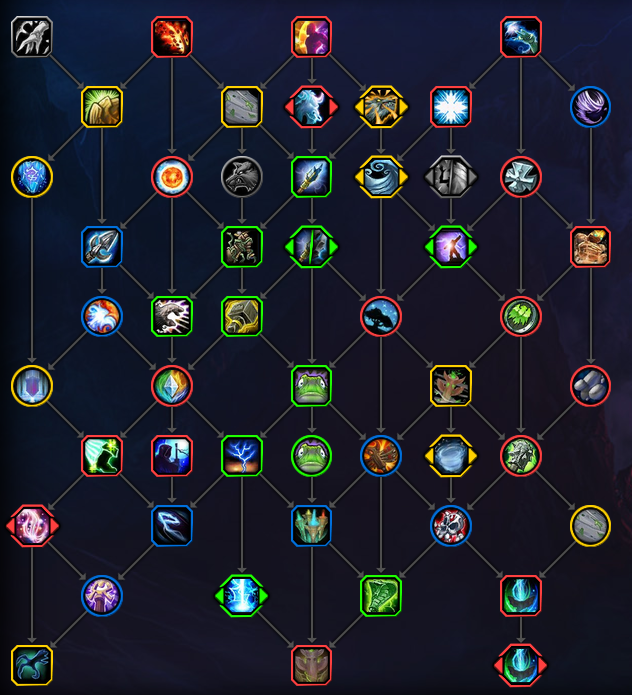
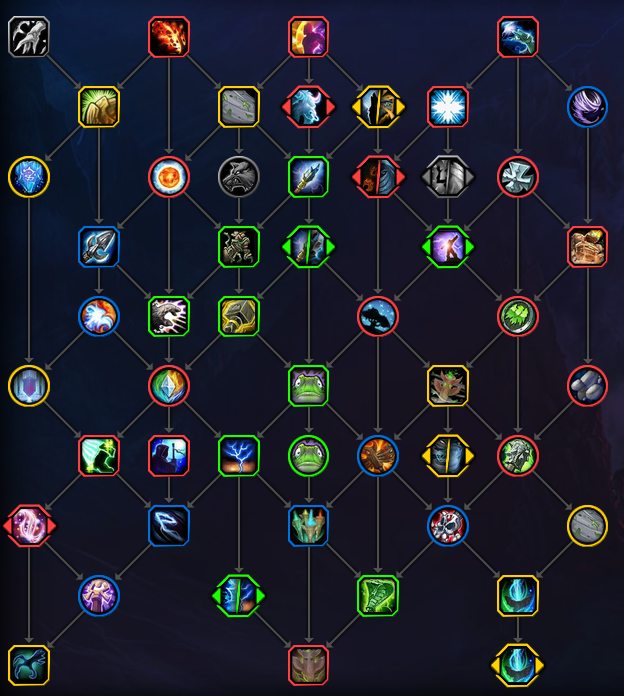
Class and Specific interactions
- Class tree updated with recent changes
- Added LvB an FE prepull in spec page
- Reorder spec page

diff --git a/guide/general/class_tree.md b/guide/general/class_tree.md
@@ -14,58 +14,81 @@ We have the luxury of having a very versatile Class tree that can basically adap
 
 With that being said, let's look at the content of the Class tree: 
 
-<img src="/assets/img/guide/class_Tree.png" alt="Class Tree Classification" class="center">
+<img src="/assets/img/guide/class_Tree.png" alt="Class Tree Classification">
 
 ## Red nodes: Always talent them
-- {{ site.data.spell.lvb }} and {{ site.data.spell.cl }} are points given to us as Elemental Shaman
-- {{ site.data.spell.as }}, {{ site.data.spell.planes_traveler }}, {{ site.data.spell.ee }}, {{ site.data.spell.primordial_bond }}, {{ site.data.spell.natures_guardian }}, {{ site.data.spell.brimming_with_life }} and {{ site.data.spell.elemental_warding }} are all primary defensive nodes
-- {{ site.data.spell.stone_bulwark_totem }} is a new defensive totem in TWW, making it required of course
-- Since {{ site.data.spell.totemic_recall }} works with {{ site.data.spell.stone_bulwark_totem }}, you always want it along with {{ site.data.spell.call_of_the_elements }}
-- {{ site.data.spell.fire_and_ice }}, {{ site.data.spell.natures_fury }}, {{ site.data.spell.frs }} and the new {{ site.data.spell.enhanced_imbues }} are the few throughput nodes in our tree which we always want
-- {{ site.data.spell.swg }} and {{ site.data.spell.graceful_spirit }} are too good to ever skip
-- {{ site.data.spell.ag }} is our best group utility and should be used as much as possible
+{{ site.data.spell.lvb }} and {{ site.data.spell.cl }} are points given to us as Elemental Shaman.
+
+{{ site.data.spell.fire_and_ice }}, {{ site.data.spell.natures_fury }}, {{ site.data.spell.frs }} and the new {{ site.data.spell.enhanced_imbues }} are the few throughput nodes in our tree and we always want them.
+
+{{ site.data.spell.as }}, {{ site.data.spell.planes_traveler }}, {{ site.data.spell.ee }}, {{ site.data.spell.primordial_bond }}, {{ site.data.spell.natures_guardian }}, {{ site.data.spell.brimming_with_life }} and {{ site.data.spell.elemental_warding }} are all primary defensive nodes.
+
+{{ site.data.spell.stone_bulwark_totem }} is a new defensive totem in TWW, making it required of course.
+
+{{ site.data.spell.swg }} and {{ site.data.spell.graceful_spirit }} are too good to ever skip.
+
+{{ site.data.spell.ag }} is our best group utility and should be used as much as possible.
+
+{{ site.data.spell.gow }} and {{ site.data.spell.spirit_walk }} are free mobility picks that always feel relevant. {{ site.data.spell.gow }} should be the default pick, unless you need the slow/root dispel of {{ site.data.spell.spirit_walk }}.
 
 <br>
 ## Yellow nodes: Usually Good
-- If the content you're doing doesn't require a kick, feel free to skip {{ site.data.spell.wind_shear }} and {{ site.data.spell.seasoned_winds }}. Otherwise, both are required talent
-- {{ site.data.spell.gow }} and {{ site.data.spell.spirit_walk }} could be red nodes, given how many points we have to spend in the tree. Nonetheless, they are not exactly required and some might talent off of them. I would still pretty much always use them
-- The exact same can be said for {{ site.data.spell.thunderous_paws }} and {{ site.data.spell.spirit_wolf }}
-- {{ site.data.spell.wrt }} and its new follow up choice node, {{ site.data.spell.jet_stream }} vs {{ site.data.spell.ascending_air }}, is very recommended in most content, but could be skipped depending on your group composition
-- {{ site.data.spell.earth_shield }} and {{ site.data.spell.elemental_orbit }} are defensive maintenance buff that are pretty low impact. A lot of players do not bother with it. It's still more than decent, especially if you maintain it between pulls in m+ or during downtime in raid
-- {{ site.data.spell.refreshing_waters }} is a great talent to use in hard content (raid prog, m+ pushing, ...) but gets weaker as a patch progresses. Both your healer and you will get more gear, making you less vulnerable over time
-- {{ site.data.spell.ns }} is yellow because it's a required node for the Farseer hero talents. If you are playing Stormbringer, it's a situational utility that can be skipped but great to get an extra movement global
+If the content you're doing doesn't require a kick, feel free to skip {{ site.data.spell.wind_shear }} and {{ site.data.spell.seasoned_winds }}. Otherwise, both are required talent.
+
+The exact same can be said for {{ site.data.spell.thunderous_paws }} and {{ site.data.spell.spirit_wolf }}.
+
+{{ site.data.spell.wrt }} and its new follow up choice node, {{ site.data.spell.jet_stream }} vs {{ site.data.spell.ascending_air }}, is very recommended in most content, but could be skipped depending on your group composition.
+
+{{ site.data.spell.earth_shield }} and {{ site.data.spell.elemental_orbit }} are defensive maintenance buff that are pretty low impact. A lot of players do not bother with it. It's still more than decent, especially if you maintain it between pulls in m+ or during downtime in raid.
+
+{{ site.data.spell.refreshing_waters }} is a great talent to use in hard content (raid prog, m+ pushing, ...) but gets weaker as a patch progresses. Both your healer and you will get more gear, making you less vulnerable over time.
+
+{{ site.data.spell.ns }} is yellow because it's a required node for the Farseer hero talents. If you are playing Stormbringer, it's a situational utility that can be skipped but great to get an extra movement global.
+
+Similarly to {{ site.data.spell.ns }}, {{ site.data.spell.totemic_recall }} is yellow because it's required as soon as you talent into {{ site.data.spell.lmt }} in the spec tree. You can also use it with {{ site.data.spell.wrt }} for extra movement. You always want it alongside {{ site.data.spell.call_of_the_elements }}.
 
 <br>
 ## Green nodes: Situational Utility
-- Crowd Control nodes: 
-  - {{ site.data.spell.capacitor_totem }}, with {{ site.data.spell.guardians_cudgel }} or {{ site.data.spell.static_charge }}
-  - {{ site.data.spell.thunderstorm }}, with {{ site.data.spell.thundershock }} or {{ site.data.spell.traveling_storms }}
-  - {{ site.data.spell.hex }} and {{ site.data.spell.voodoo_mastery }}
-  - {{ site.data.spell.earthgrab_totem }}
-- Utility nodes:
-  - {{ site.data.spell.purge }} and {{ site.data.spell.cleanse_spirit }} are perfect examples of good talents that are purely situational and can be skipped in many builds, and picked only when needed
-  - {{ site.data.spell.tremor_totem }}
-  - {{ site.data.spell.pct}}
+Crowd Control nodes: 
+- {{ site.data.spell.capacitor_totem }}, with {{ site.data.spell.guardians_cudgel }} or {{ site.data.spell.static_charge }}
+- {{ site.data.spell.thunderstorm }}, with {{ site.data.spell.thundershock }} or {{ site.data.spell.traveling_storms }}
+- {{ site.data.spell.hex }} and {{ site.data.spell.voodoo_mastery }}
+- {{ site.data.spell.earthgrab_totem }}
+
+Utility nodes:
+- {{ site.data.spell.purge }} and {{ site.data.spell.cleanse_spirit }} are perfect examples of good talents that are purely situational and can be skipped in many builds, and picked only when needed
+- {{ site.data.spell.tremor_totem }}
+- {{ site.data.spell.pct}}
 
 <br>
 ## Blue nodes: Low impact or pathing nodes
-- {{ site.data.spell.healing_stream_totem }}, paired with {{ site.data.spell.elemental_resistance }}, is a fire and forget group cd that has multiple severe drawbacks, namely:
-  - It's on the GCD, making you lose a cast
-  - You cannot control its target, making it unpredictible and globally low "relevant" healing
-  - With {{ site.data.spell.inundate }} being passive in TWW, you will gain 8 maelstrom when you using it
-  - Nonetheless, {{ site.data.spell.elemental_resistance }} is not negligeable DR when it works and it makes for a good pathing node toward {{ site.data.spell.elemental_warding }}
-- {{ site.data.spell.totemic_focus }} is nice for {{ site.data.spell.wrt }} or {{ site.data.spell.hst }} duration, but is mostly used for pathing toward {{ site.data.spell.stone_bulwark_totem }}
-- Similarly, {{ site.data.spell.totemic_projection }} has some nice uses with {{ site.data.spell.wrt }} or {{ site.data.spell.earthgrab_totem }} but is mostly used for pathing
-- {{ site.data.spell.totemic_surge }} is a small passive gains that you won't notice most of the time. It's mostly used for pathing when you do not have {{ site.data.spell.wind_shear }} to go with {{ site.data.spell.seasoned_winds }}
-- {{ site.data.spell.mana_spring }} is better in raid content than it is in party, but lacking nonetheless. The numbers on it are too low to make it a good talent
-- {{ site.data.spell.lightning_lasso }} can have some uses as an additional CC in m+, but the uptime loss makes it less relevant
-- {{ site.data.spell.winds_of_alakir }} is on the brim of being grey, but giving additional {{ site.data.spell.ghost_wolf }} mobility in dungeon can be a cool gain if you have nothing else to pick
+{{ site.data.spell.healing_stream_totem }}, paired with {{ site.data.spell.elemental_resistance }}, is a fire and forget group cd that has multiple severe drawbacks, namely it's on the GCD, making you lose a cast and you cannot control its target, making it unpredictible and globally low impact healing. Nonetheless, with {{ site.data.spell.inundate }} (now baseline in TWW) giving you 8 maelstrom when you using it and {{ site.data.spell.elemental_resistance }} giving non-negligeable DR when it works, {{ site.data.spell.hst }} a good pathing node toward {{ site.data.spell.elemental_warding }}.
+
+{{ site.data.spell.totemic_focus }} is nice for {{ site.data.spell.wrt }} or {{ site.data.spell.hst }} duration, but is mostly used for pathing toward {{ site.data.spell.stone_bulwark_totem }}.
+
+Similarly, {{ site.data.spell.totemic_projection }} has some nice uses with {{ site.data.spell.wrt }} or {{ site.data.spell.earthgrab_totem }} but is mostly used for pathing.
+
+{{ site.data.spell.totemic_surge }} is a small passive gains that you won't notice most of the time. It's mostly used for pathing when you do not have {{ site.data.spell.wind_shear }} to go with {{ site.data.spell.seasoned_winds }}.
+
+{{ site.data.spell.mana_spring }} is better in raid content than it is in party, but lacking nonetheless. The numbers on it are too low to make it a good talent.
+
+{{ site.data.spell.lightning_lasso }} can have some uses as an additional CC in m+, but the uptime loss makes it less relevant.
+
+{{ site.data.spell.winds_of_alakir }} is on the brim of being grey, but giving additional {{ site.data.spell.ghost_wolf }} mobility passively can be a cool gain if you have nothing else to pick.
 
 <br>
 ## Grey Nodes: Probably not played ever
-- We don't really have any incentives to ever press {{ site.data.spell.chain_heal }}. Pairing it with {{ site.data.spell.natures_swiftness }} can be a small healing burst on a group but it's honestly too low to ever bother talenting it
-- You cannot do damage in {{ site.data.spell.ghost_wolf }}, and {{ site.data.spell.ancestral_wolf_affinity }} helps when staying in {{ site.data.spell.ghost_wolf }}, making it non-ideal
-- Even if  {{ site.data.spell.encasing_cold }} and {{ site.data.spell.arctic_snowstorm }} are both super cool in theory, we have {{ site.data.spell.earthbind_totem }} baseline already providing slows making them obselete
+We don't really have any incentives to ever press {{ site.data.spell.chain_heal }}. Pairing it with {{ site.data.spell.natures_swiftness }} can be a small healing burst on a group but it's honestly too low to ever bother talenting it.
+
+You cannot do damage in {{ site.data.spell.ghost_wolf }}, and {{ site.data.spell.ancestral_wolf_affinity }} helps when staying in {{ site.data.spell.ghost_wolf }}, making it non-ideal.
+
+Even if  {{ site.data.spell.encasing_cold }} and {{ site.data.spell.arctic_snowstorm }} are both super cool in theory, we have {{ site.data.spell.earthbind_totem }} baseline already providing slows making them at best redundant.
+
+{{ site.data.spell.astral_bulwark }}, the alternative of {{ site.data.spell.planes_traveler }}, could theorically be used during progression if the damage events are spreaded enough. But more often than not, the CDR will give us more flexibility and 40% DR is more than enough.
+
+{{ site.data.spell.spiritwalkers_aegis }} is mostly a PvP choice and won't ever be used ({{ site.data.spell.graceful_spirit }} counterpart choice).
+
+We don't really ever need {{ site.data.spell.creation_core }} since we rarely need to reset more than one Totem, and losing the CDR from {{ site.data.spell.call_of_the_elements }} is a enormous price to pay.
 
 <hr>
 

diff --git a/guide/general/specific_interation.md b/guide/general/specific_interation.md
@@ -13,27 +13,24 @@ This page aims to display and discuss the recommended and most widely-used Build
 In practical terms we cannot account for every build variation and effort has been largely focused on the highest performing / most popular builds. If you find something that you feel works or performs better than what is listed here feel free to contact the team on [Storm, Earth & Lava Discord](https://discord.gg/y5dUf3PWrU) or [Earthshrine #Elemental Channel](https://discord.gg/earthshrine)
 
 <hr>
-# Deeply Rooted Elements
+# Lava Burst
+Probably the most basic interaction but you have to start this guide somewhere: {{ site.data.spell.lvb }} crit are calculated on-hit and not on cast. Which means you can cast {{ site.data.spell.lvb }} into {{ site.data.spell.fs }} and guarantee that {{ site.data.spell.lvb }} will crit.
 
-Casting {{ site.data.spell.lava_burst }} has an ever increasing chance to trigger {{ site.data.spell.ascendance }}, starting with a double 0% chance then incrementing by 1% per cast (0%, 0%, 1%, 2%, 3%, 4%, ...). This averages out to the 7% chance stated by the tooltip.
-
-<img src="/assets/img/guide/DRE_proc_chart.png" alt="DRE proc Chart">
-
-This behaviour implies low chance of back to back procs, as well as low chance of no procs for a extended period. 
-
-What becomes apparent is that you can and should play around your current proc chance. Let's say you're at the end of a mythic+ pack and your {{ site.data.spell.dre }} counter is at 11%. You're likely to proc {{ site.data.spell.asc }} in your next 3 to 5 {{ site.data.spell.lvb }} casts. If you stop casting {{ site.data.spell.lvb }} until next pack, you increase your chance of proccing {{ site.data.spell.asc }} when it matters in the next pack instead of proccing it on almost dead mobs.
-
-This weakaura (must include link, ping me in Discord if I forgot to update this line) will help you track your {{ site.data.spell.dre }} counter in game and play around it.
+This is especially useful on pre-pulls, where you should cast {{ site.data.spell.lvb }} 1.8s before pull then {{ site.data.spell.fs }} on pull.
 
 <hr>
-# New Icefury
+# Fire and Storm Elemental pre-pull
 
-<hr>
-# Fusion of the Elements 
-How to efficiently proc it
+{{ site.data.spell.fe }} and {{ site.data.spell.se }} will start attacking your target if you cast them while targeting an enemy, even if you are not in combat.
+
+As you mostly care about their side effect and not their direct damage, you want to cast them pre-pull to gain uptime on the boss.  
+
+So how do you do that? Quite simply frankly. You clear targets, cast your Elemental, then target your enemy and start casting. Be warned that `/cleartarget` macros (and all macros in general) do not work to make this process automatic. It used to, but was fixed in DF prepatch.
 
 <hr>
 # Mastery, Overloads and Chain Lightning
+
+
 
 <hr>
 # Liquid Magma Totem
@@ -69,6 +66,28 @@ if you are planning to use 2 {{ site.data.spell.lmt }} in a pack thanks to :TR:,
 Do. Not. Kill. {{ site.data.spell.lmt }}. It can rip aggro if you put it down before tank gets aggro and it will get one shotted. 
 
 Sure, it already spread {{ site.data.spell.fs }} but you're still losing a lot of damage.
+
+<hr>
+# New Icefury
+Deck of card
+
+
+<hr>
+# Fusion of the Elements 
+How to efficiently proc it
+
+<hr>
+# Deeply Rooted Elements
+
+Casting {{ site.data.spell.lava_burst }} has an ever increasing chance to trigger {{ site.data.spell.ascendance }}, starting with a double 0% chance then incrementing by 1% per cast (0%, 0%, 1%, 2%, 3%, 4%, ...). This averages out to the 7% chance stated by the tooltip.
+
+<img src="/assets/img/guide/DRE_proc_chart.png" alt="DRE proc Chart">
+
+This behaviour implies low chance of back to back procs, as well as low chance of no procs for a extended period. 
+
+What becomes apparent is that you can and should play around your current proc chance. Let's say you're at the end of a mythic+ pack and your {{ site.data.spell.dre }} counter is at 11%. You're likely to proc {{ site.data.spell.asc }} in your next 3 to 5 {{ site.data.spell.lvb }} casts. If you stop casting {{ site.data.spell.lvb }} until next pack, you increase your chance of proccing {{ site.data.spell.asc }} when it matters in the next pack instead of proccing it on almost dead mobs.
+
+This weakaura (must include link, ping me in Discord if I forgot to update this line) will help you track your {{ site.data.spell.dre }} counter in game and play around it.
 
 <hr>
 
